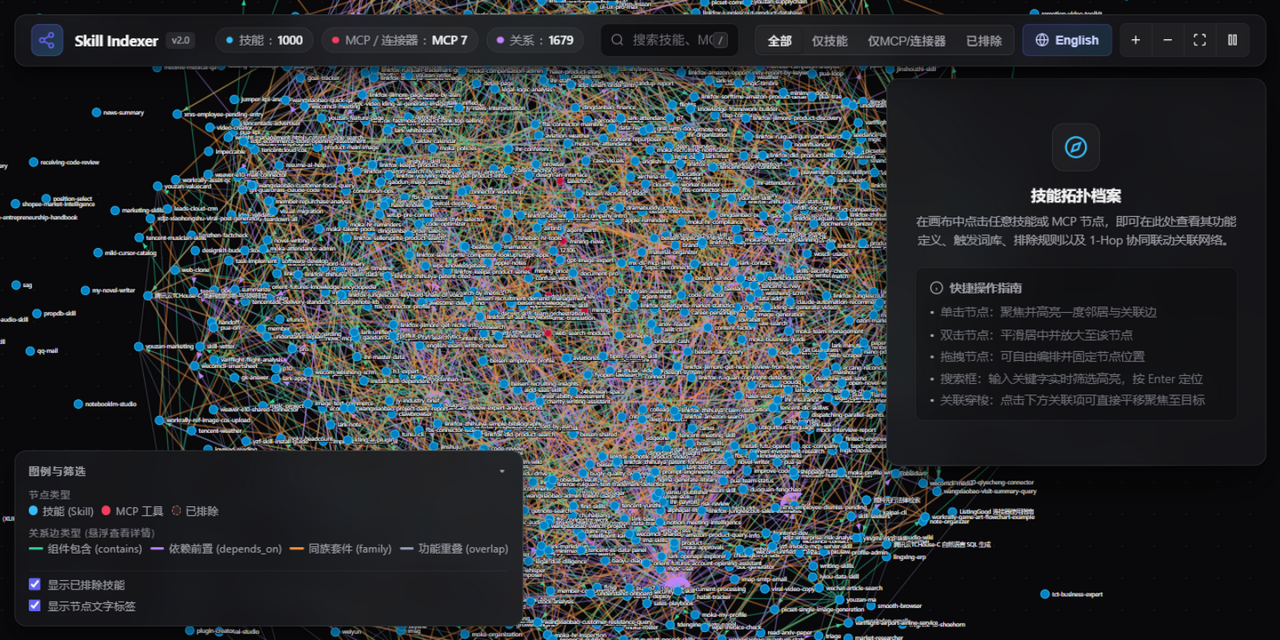
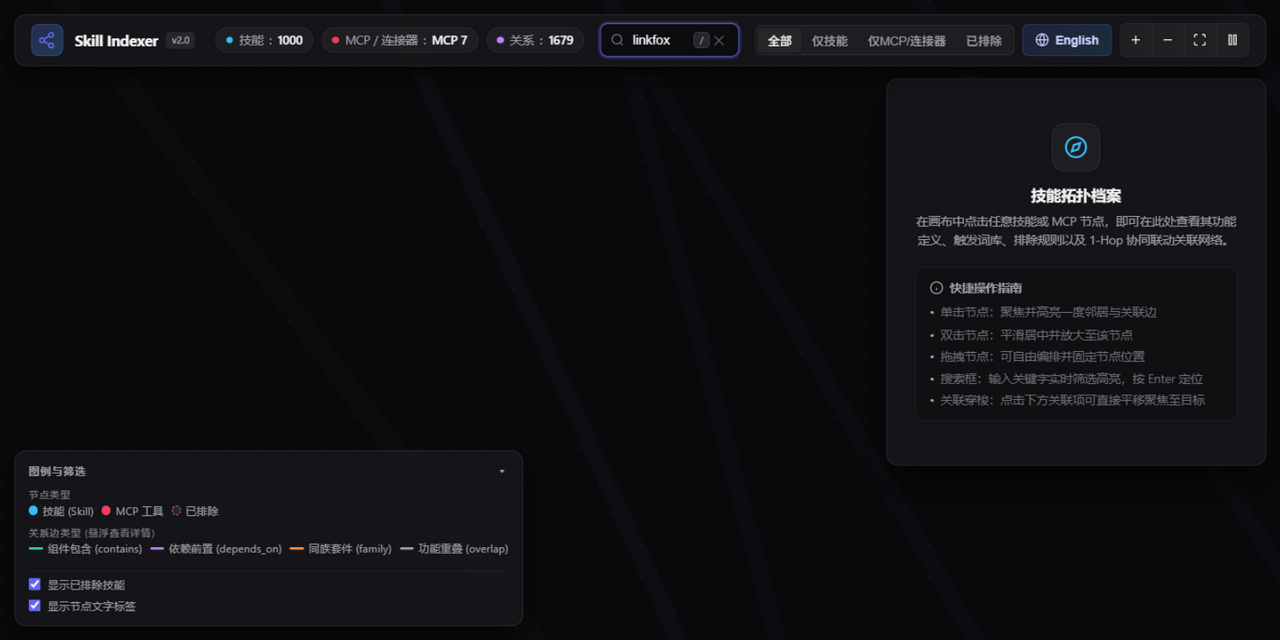
docs: replace README hero image with a focused, readable cluster view

diff --git a/README_ZH.md b/README_ZH.md
@@ -15,7 +15,7 @@
 
 ---
 
-![skill-indexer knowledge graph — 1,000 skills, 1,679 edges, rendered locally](.github/assets/dashboard.png)
+![离线图谱面板聚焦视图：linkfox 技能族搜索高亮，右侧为节点档案（提取/依赖/触发词）](.github/assets/dashboard.png)
 
 ---
 

diff --git a/README.md b/README.md
@@ -15,7 +15,7 @@
 
 ---
 
-![skill-indexer knowledge graph — 1,000 skills, 1,679 edges, rendered locally](.github/assets/dashboard.png)
+![Focused view of the offline dashboard: the `linkfox` skill family, search-highlighted, node dossier on the right](.github/assets/dashboard.png)
 
 ---
 
